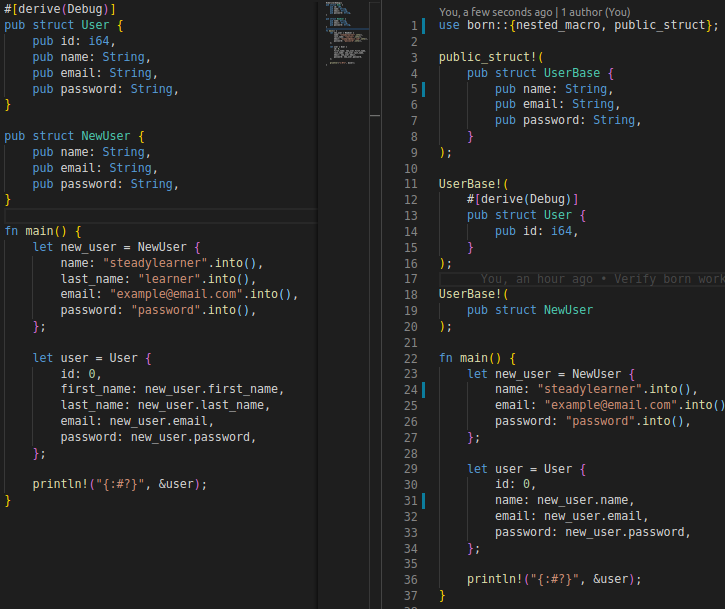
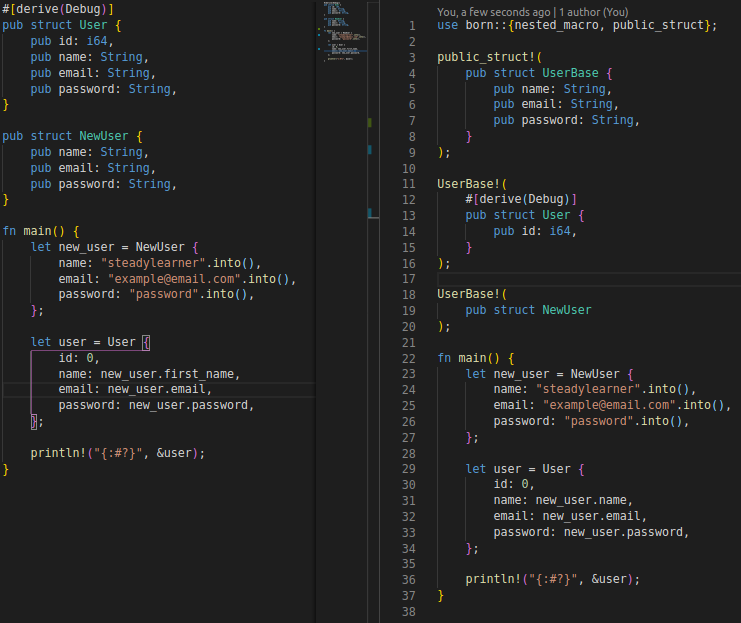
Edit README.md

diff --git a/macro/born/src/main_without_born.rs b/macro/born/src/main_without_born.rs
@@ -11,18 +11,17 @@ pub struct NewUser {
     pub email: String,
     pub password: String,
 }
+
 fn main() {
     let new_user = NewUser {
-        first_name: "steady".into(),
-        last_name: "learner".into(),
+        name: "steadylearner".into(),
         email: "example@email.com".into(),
         password: "password".into(),
     };
 
     let user = User {
         id: 0,
-        first_name: new_user.first_name,
-        last_name: new_user.last_name,
+        name: new_user.first_name,
         email: new_user.email,
         password: new_user.password,
     };
